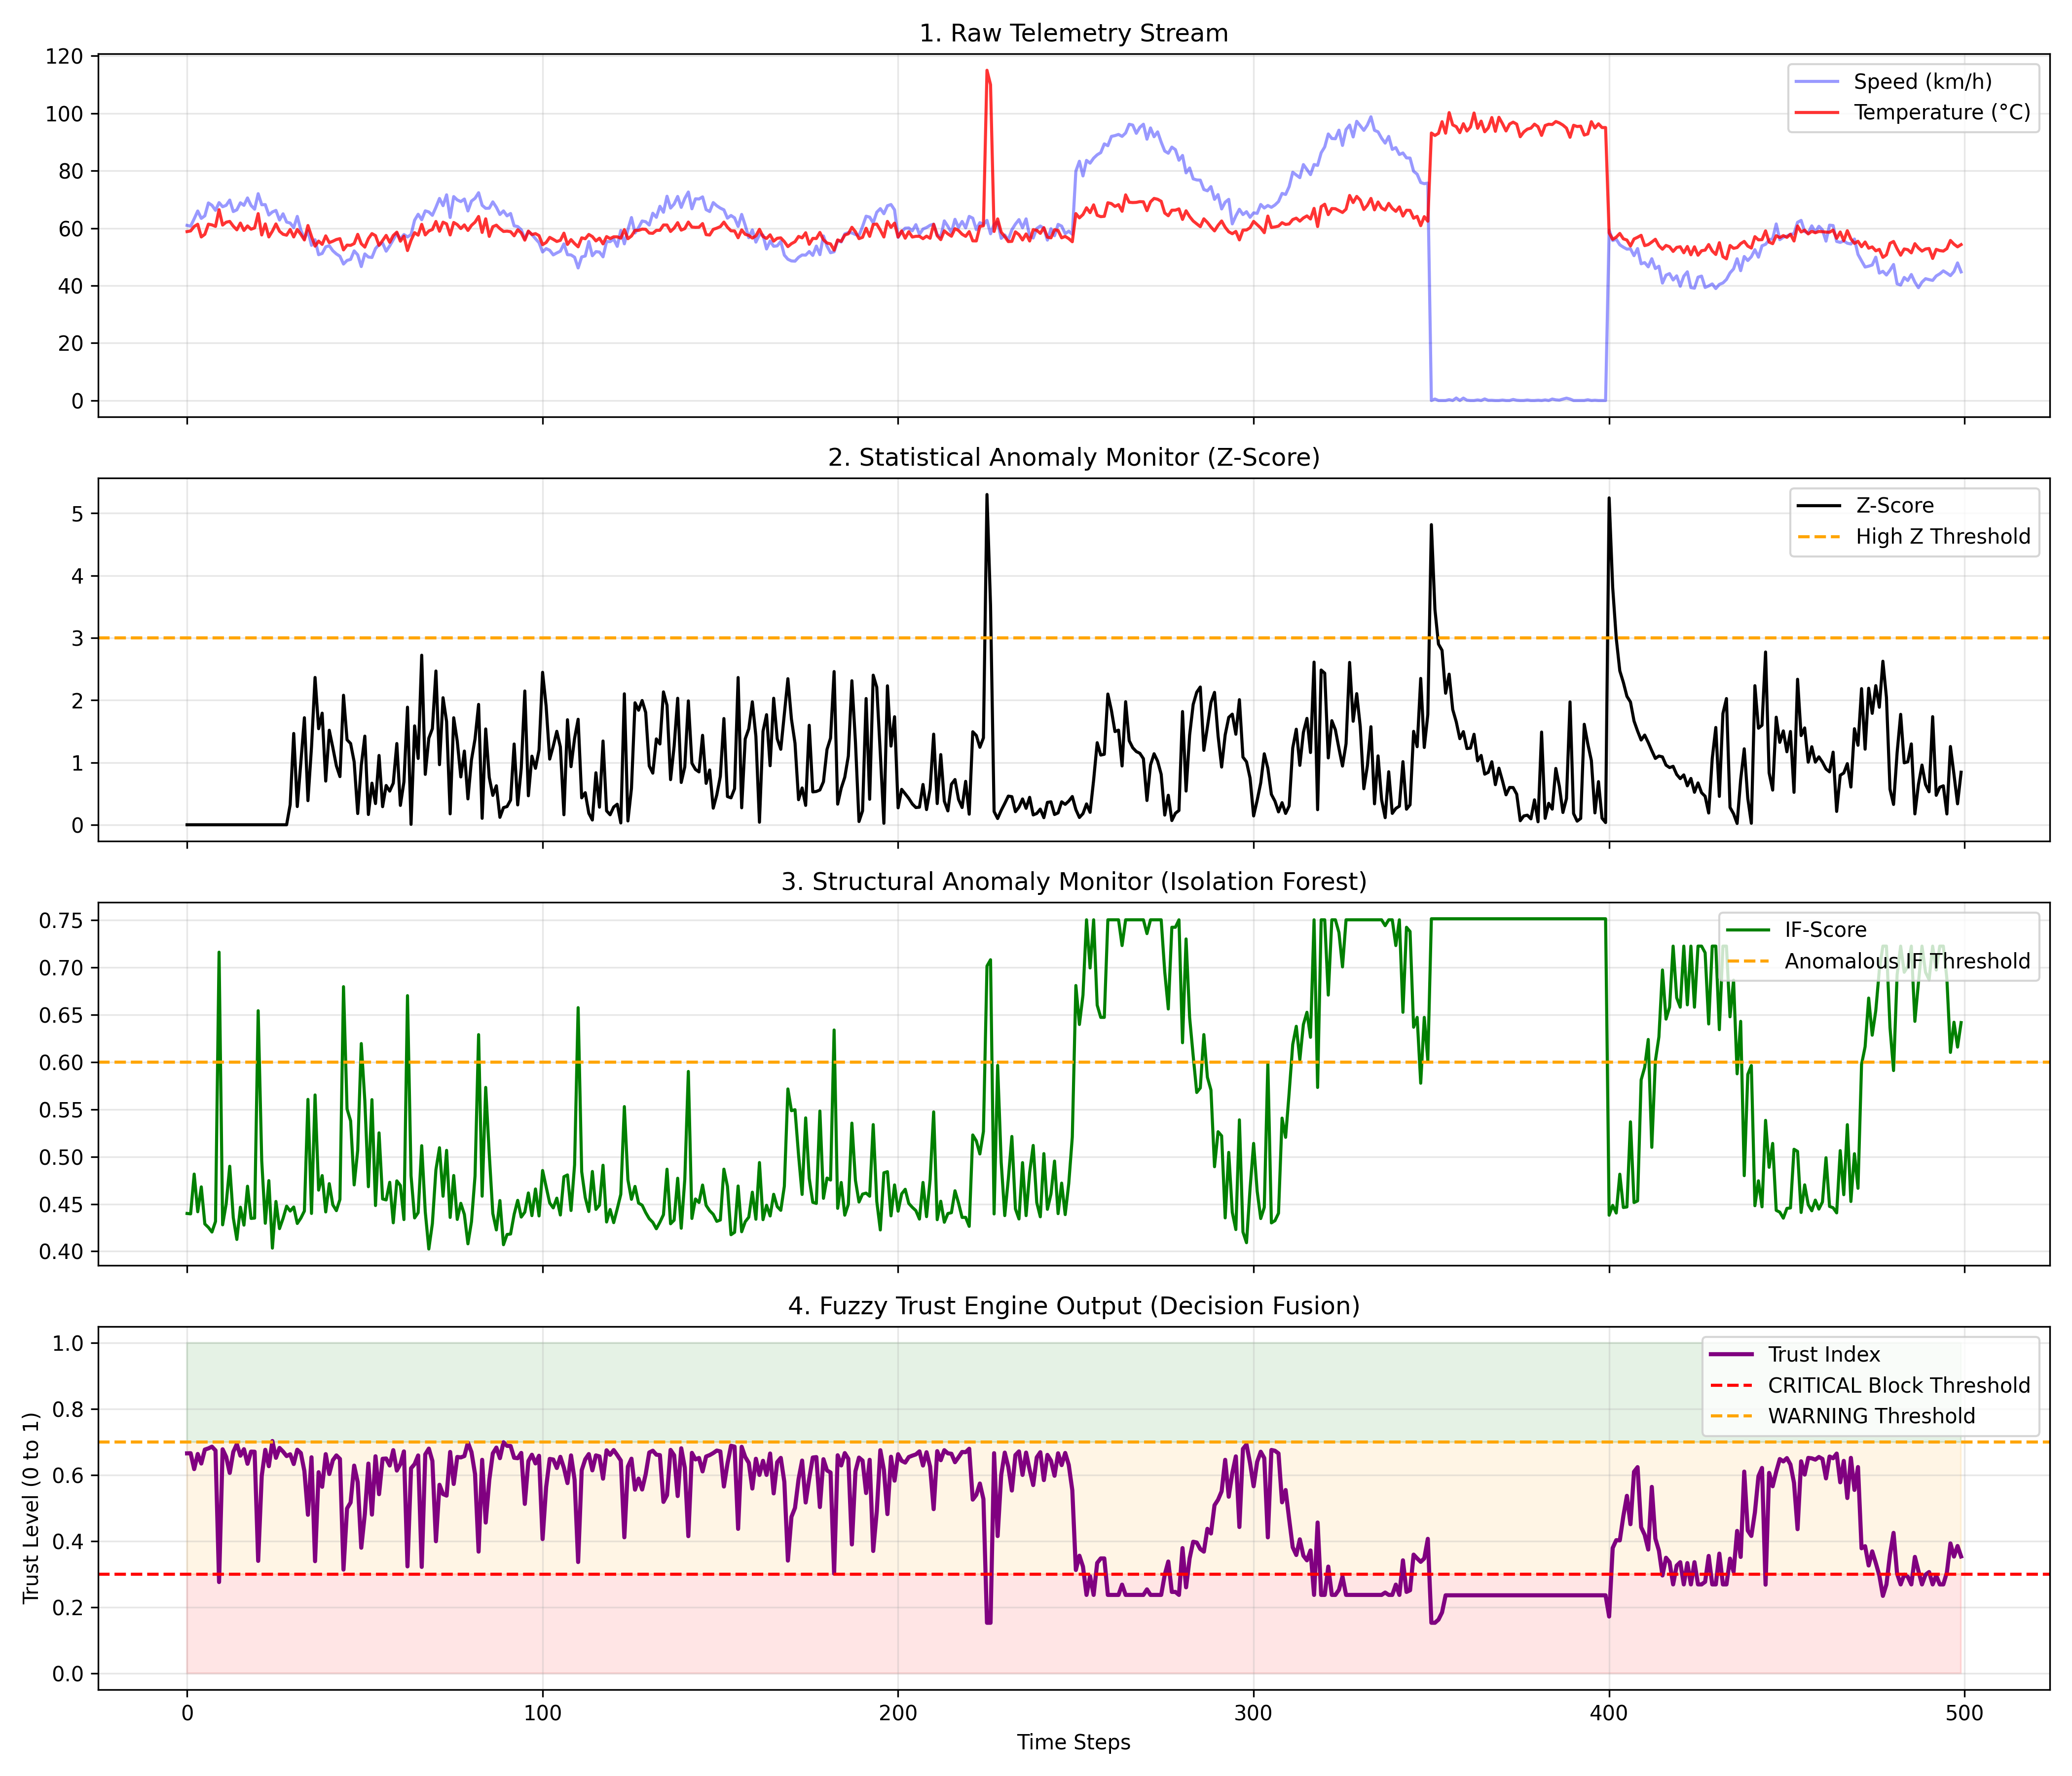
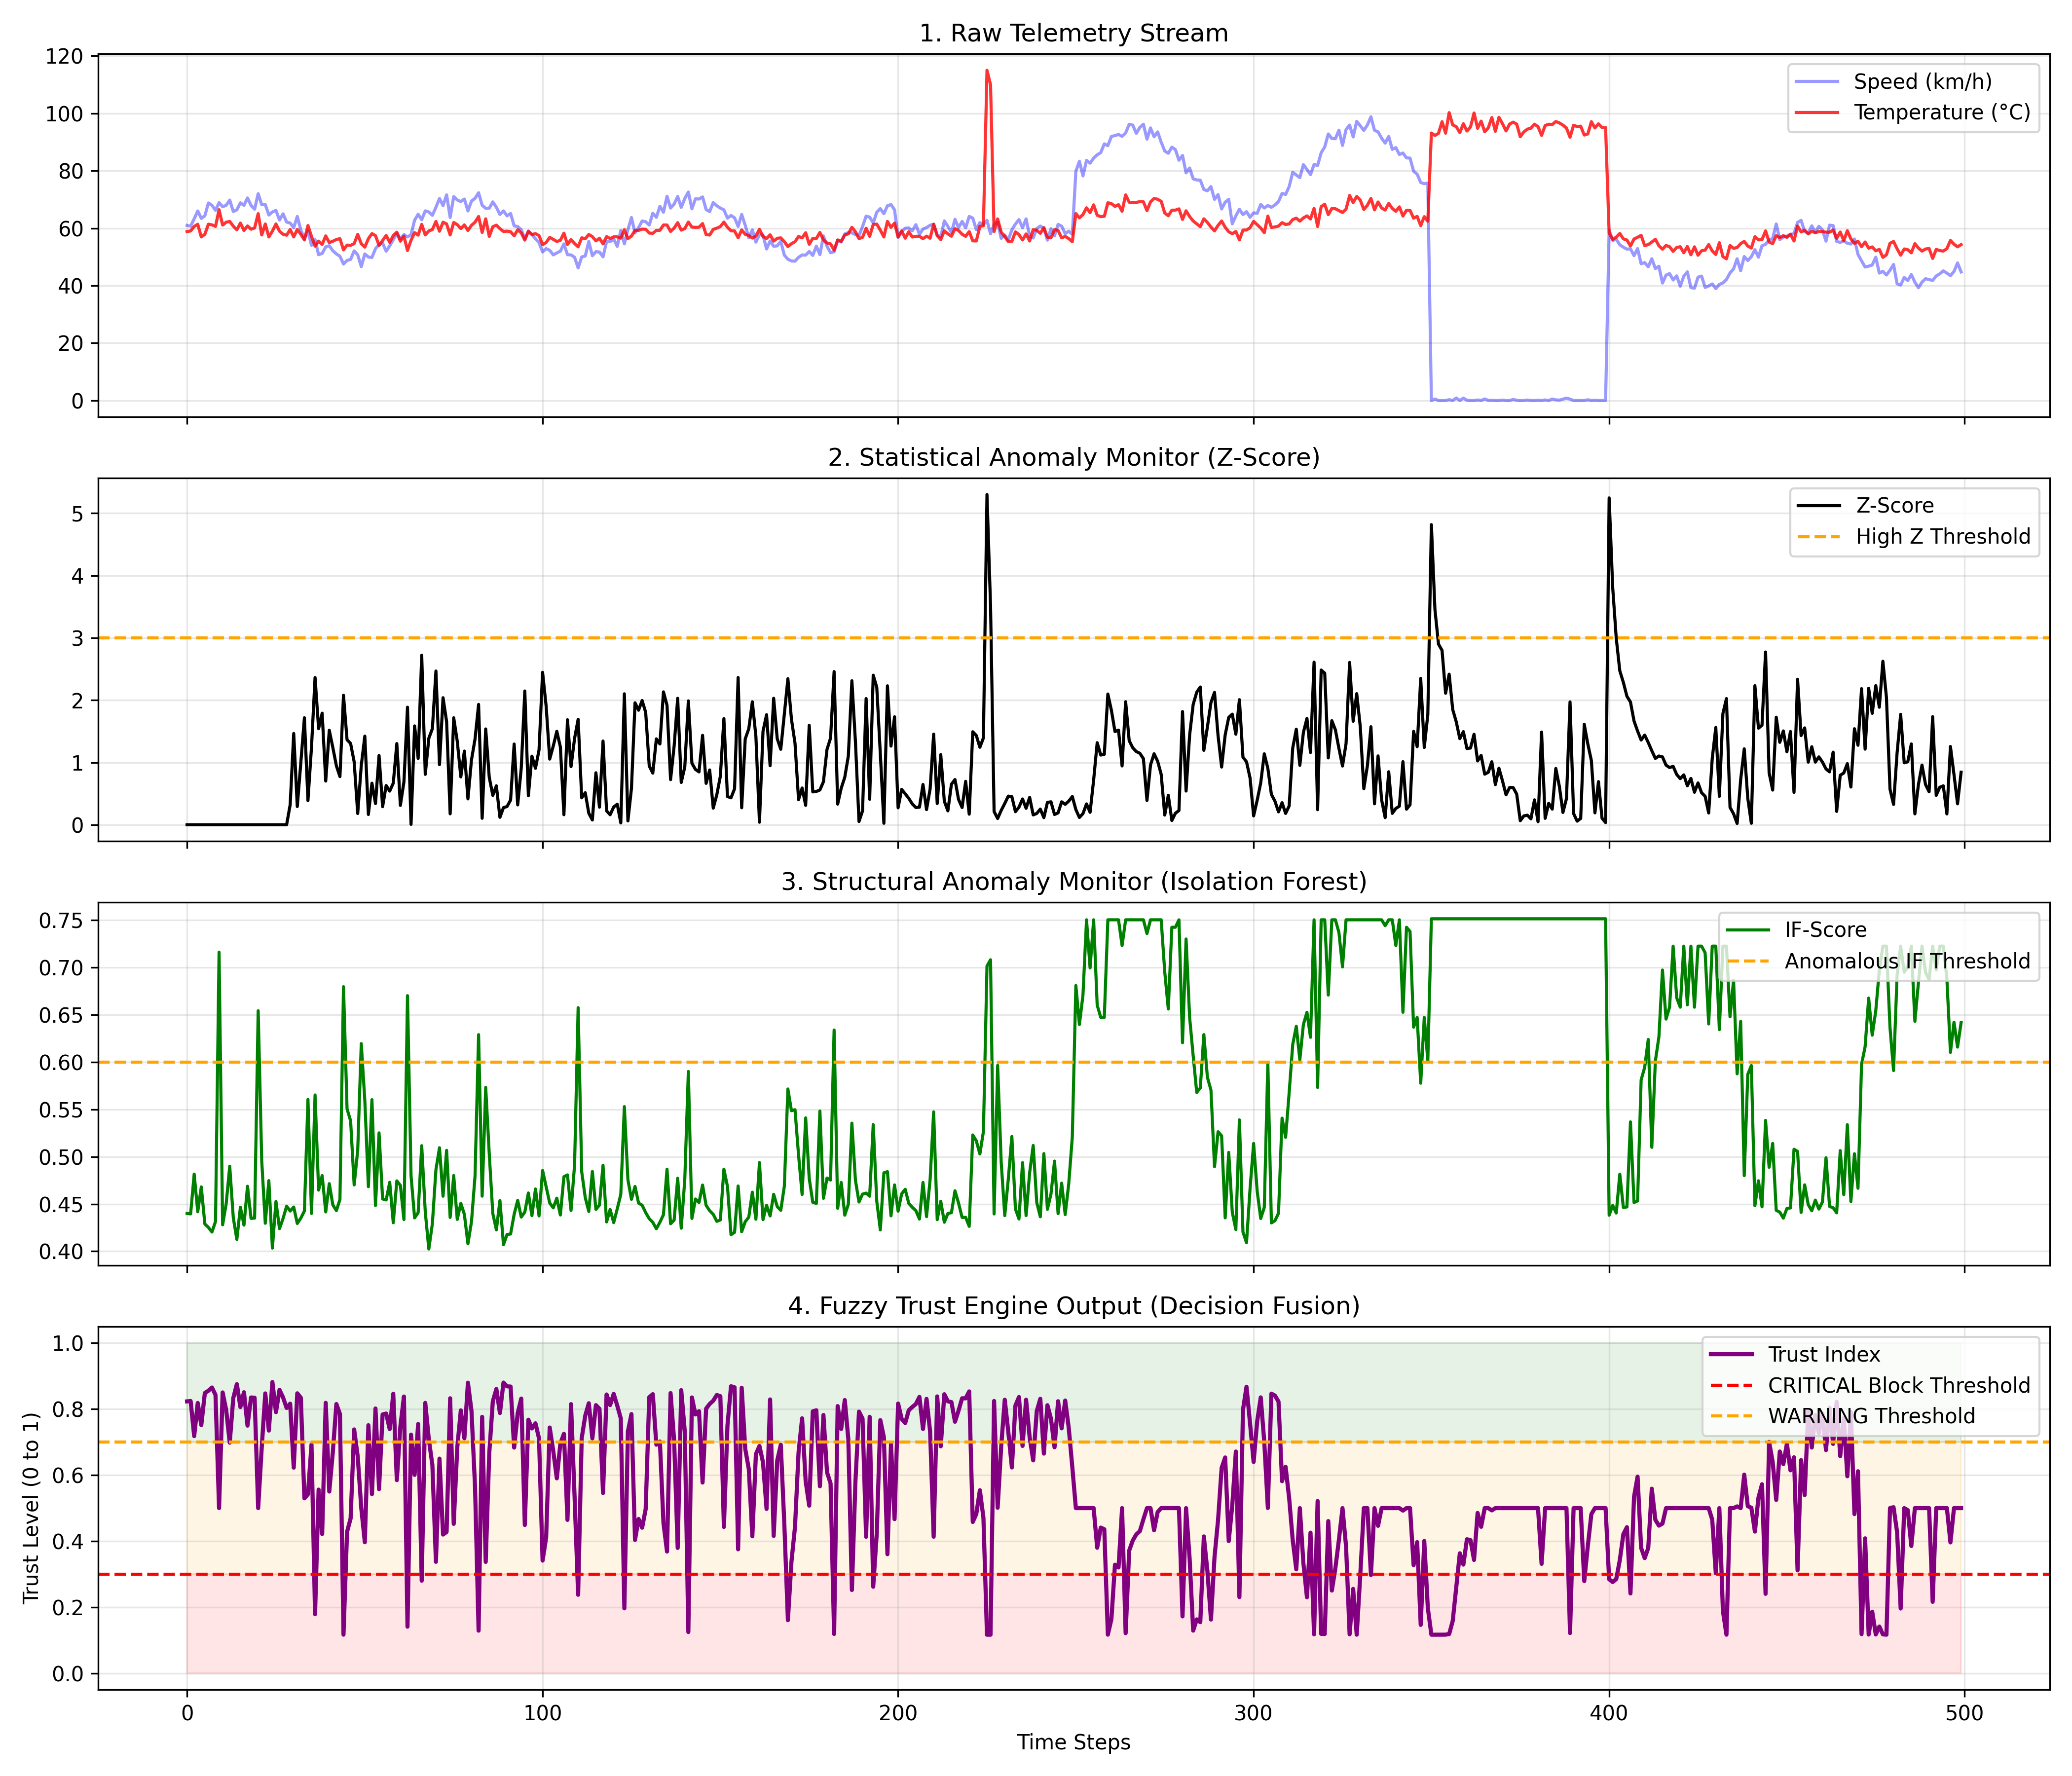
feat: implement FAAD service with fuzzy logic fusion and standalone isolation forest training

Changed region(s): [[0.0936, 0.7778, 0.9669, 0.9333]]

diff --git a/hybrid_prototype/fuzzy_engine.py b/hybrid_prototype/fuzzy_engine.py
@@ -24,30 +24,31 @@ class FuzzyTrustEngine:
         self.trust_index = ctrl.Consequent(np.arange(0, 1.01, 0.01), 'trust_index')
 
         # 2. Define Membership Functions
-        # Z-Score sets: Low (0-2), Medium (2-4), High (>4)
-        self.z_score['low'] = fuzz.zmf(self.z_score.universe, 1.5, 3.0)
-        self.z_score['medium'] = fuzz.gaussmf(self.z_score.universe, 3.0, 0.8)
-        self.z_score['high'] = fuzz.smf(self.z_score.universe, 3.0, 5.0)
+        # Z-Score sets: Normal (0-2), Suspect (1-3), Anomalous (>2)
+        self.z_score['normal'] = fuzz.zmf(self.z_score.universe, 1.0, 2.0)
+        self.z_score['suspect'] = fuzz.trimf(self.z_score.universe, [1.0, 2.0, 3.0])
+        self.z_score['anomalous'] = fuzz.smf(self.z_score.universe, 2.0, 3.0)
 
-        # IF-Score sets: Normal (0-0.5), Suspect (0.4-0.7), Anomalous (>0.6)
+        # IF-Score sets: Normal (low anomaly score), Anomalous (high anomaly score)
         self.if_score['normal'] = fuzz.zmf(self.if_score.universe, 0.4, 0.6)
-        self.if_score['suspect'] = fuzz.gaussmf(self.if_score.universe, 0.55, 0.1)
-        self.if_score['anomalous'] = fuzz.smf(self.if_score.universe, 0.5, 0.7)
+        self.if_score['anomalous'] = fuzz.smf(self.if_score.universe, 0.4, 0.6)
 
-        # Trust Index sets: Critical (0-0.3), Warning (0.3-0.7), OK (0.7-1.0)
-        self.trust_index['critical'] = fuzz.zmf(self.trust_index.universe, 0.2, 0.4)
-        self.trust_index['warning'] = fuzz.gaussmf(self.trust_index.universe, 0.5, 0.15)
-        self.trust_index['ok'] = fuzz.smf(self.trust_index.universe, 0.6, 0.8)
+        # Trust Index sets: Low (centroid 0.1), Low-Medium (centroid 0.3), Medium (centroid 0.5), High (centroid 0.9)
+        self.trust_index['low'] = fuzz.trimf(self.trust_index.universe, [0.0, 0.1, 0.25])
+        self.trust_index['low_medium'] = fuzz.trimf(self.trust_index.universe, [0.15, 0.3, 0.45])
+        self.trust_index['medium'] = fuzz.trimf(self.trust_index.universe, [0.35, 0.5, 0.65])
+        self.trust_index['high'] = fuzz.trimf(self.trust_index.universe, [0.75, 0.9, 1.0])
 
         # 3. Define Fuzzy Rules
-        rule1 = ctrl.Rule(self.z_score['low'] & self.if_score['normal'], self.trust_index['ok'])
-        rule2 = ctrl.Rule(self.z_score['medium'] & self.if_score['normal'], self.trust_index['warning'])
-        rule3 = ctrl.Rule(self.z_score['high'] | self.if_score['anomalous'], self.trust_index['critical'])
-        rule4 = ctrl.Rule(self.z_score['low'] & self.if_score['suspect'], self.trust_index['warning'])
-        rule5 = ctrl.Rule(self.z_score['medium'] & self.if_score['suspect'], self.trust_index['critical'])
+        rule1 = ctrl.Rule(self.z_score['anomalous'] & self.if_score['anomalous'], self.trust_index['low'])
+        rule2 = ctrl.Rule(self.z_score['suspect'] & self.if_score['anomalous'], self.trust_index['low'])
+        rule3 = ctrl.Rule(self.z_score['anomalous'] & self.if_score['normal'], self.trust_index['low_medium'])
+        rule4 = ctrl.Rule(self.z_score['normal'] & self.if_score['anomalous'], self.trust_index['medium'])
+        rule5 = ctrl.Rule(self.z_score['suspect'] & self.if_score['normal'], self.trust_index['medium'])
+        rule6 = ctrl.Rule(self.z_score['normal'] & self.if_score['normal'], self.trust_index['high'])
 
         # 4. Build Control System
-        self.trust_ctrl = ctrl.ControlSystem([rule1, rule2, rule3, rule4, rule5])
+        self.trust_ctrl = ctrl.ControlSystem([rule1, rule2, rule3, rule4, rule5, rule6])
         self.trust_sim = ctrl.ControlSystemSimulation(self.trust_ctrl)
 
     def evaluate(self, z_val, if_val):

diff --git a/tests/test_dual_layer_validation.py b/tests/test_dual_layer_validation.py
@@ -54,7 +54,7 @@ def main():
         if is_port_in_use(8089):
             print("[Orchestrator] Port 8089 is already in use. Reusing existing FAAD Service.")
         else:
-            faad_cmd = ["python3", "tests/faad_service.py"]
+            faad_cmd = ["python3", "hybrid_prototype/faad_service.py"]
             print(f"[Orchestrator] Starting FAAD Microservice: {' '.join(faad_cmd)}")
             faad_proc = subprocess.Popen(
                 faad_cmd,